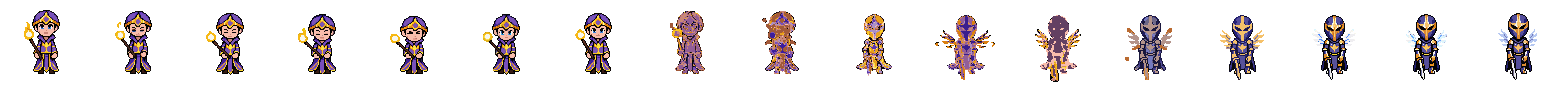
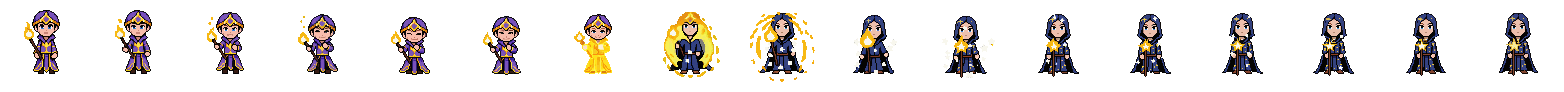
feat(mascote): estagio 4 coerente — Mago Celestial no lugar do Cavaleiro
Substitui a forma 4 (niveis 31-40) do mascote mago por uma forma
tematicamente coerente com as demais: MAGO CELESTIAL (manto indigo
estrelado, constelacoes, capa cosmica). Antes ia de Arquimago para
Cavaleiro Arcano, o que quebrava o tema de mago.

- 10 idles WORK nv31-40 (escada cosmica: estrela orbitando, constelacao,
  runa astral, capa estelar, 2 estrelas, galaxia familiar, anel de
  estrelas, aura cosmica, luz estelar carregada, halo no auge)
- 5 REST form4 (breathe, dragao bebe voando, gato, stargaze, mapa de
  constelacoes) — mantem o arco do dragao
- evolve-3 regerado (Arquimago -> Celestial) e evolve-4 (Celestial -> Deus)
- formName 31-40: "Cavaleiro Arcano" -> "Mago Celestial"
- inclui as REST por forma (f2-f5) ainda nao commitadas

Gerado no PixelLab (base 33bf49ae), 16 frames/anim, tsc verde.

diff --git a/app/src/canvas/mascot/mascotAssets.ts b/app/src/canvas/mascot/mascotAssets.ts
@@ -2,12 +2,14 @@
  * Mascot sprite assets — animated MAGE (pixel wizard), 50 levels / 5 forms.
  *
  * Forms metamorphose every 10 levels: Aprendiz (1-10) → Feiticeiro (11-20) →
- * Arquimago (21-30) → Cavaleiro Arcano (31-40) → Deus Arcano (41-50). Within a
+ * Arquimago (21-30) → Mago Celestial (31-40) → Deus Arcano (41-50). Within a
  * form the WORK idle increments per level (aura/weapon/magic).
  *
  * States (see Mascot.tsx):
  *  - WORK  (an agent runs): plays the level's "channeling" idle.
- *  - REST  (idle): cycles cozy idles (breathe, coffee, cat, dragon egg, nap).
+ *  - REST  (idle): cycles cozy idles specific to the CURRENT form. A dragon-egg
+ *    storyline runs through them: tended by the apprentice, cracking, then
+ *    hatching into a baby dragon that grows into a companion.
  *  - EVOLVE: on crossing a form boundary, plays the one-shot transformation.
  *
  * Each sheet is a horizontal strip of FRAME_COUNT frames of FRAME_W x FRAME_H.
@@ -66,11 +68,36 @@ import evolve1 from "../../assets/mascot/mage/evolve-1.png";
 import evolve2 from "../../assets/mascot/mage/evolve-2.png";
 import evolve3 from "../../assets/mascot/mage/evolve-3.png";
 import evolve4 from "../../assets/mascot/mage/evolve-4.png";
-import restBreathe from "../../assets/mascot/mage/rest-breathe.png";
-import restCoffee from "../../assets/mascot/mage/rest-coffee.png";
-import restCat from "../../assets/mascot/mage/rest-cat.png";
-import restEgg from "../../assets/mascot/mage/rest-egg.png";
-import restNap from "../../assets/mascot/mage/rest-nap.png";
+// Form 1 (Aprendiz) REST
+import rest1Breathe from "../../assets/mascot/mage/rest-breathe.png";
+import rest1Coffee from "../../assets/mascot/mage/rest-coffee.png";
+import rest1Cat from "../../assets/mascot/mage/rest-cat.png";
+import rest1Egg from "../../assets/mascot/mage/rest-egg.png";
+import rest1Nap from "../../assets/mascot/mage/rest-nap.png";
+// Form 2 (Feiticeiro) REST
+import rest2Breathe from "../../assets/mascot/mage/rest-f2-breathe.png";
+import rest2Book from "../../assets/mascot/mage/rest-f2-book.png";
+import rest2Cat from "../../assets/mascot/mage/rest-f2-cat.png";
+import rest2Egg from "../../assets/mascot/mage/rest-f2-egg.png";
+import rest2Orb from "../../assets/mascot/mage/rest-f2-orb.png";
+// Form 3 (Arquimago) REST — the dragon egg hatches here
+import rest3Breathe from "../../assets/mascot/mage/rest-f3-breathe.png";
+import rest3Hatch from "../../assets/mascot/mage/rest-f3-hatch.png";
+import rest3Cat from "../../assets/mascot/mage/rest-f3-cat.png";
+import rest3Tea from "../../assets/mascot/mage/rest-f3-tea.png";
+import rest3Scroll from "../../assets/mascot/mage/rest-f3-scroll.png";
+// Form 4 (Mago Celestial) REST — baby dragon flies around
+import rest4Breathe from "../../assets/mascot/mage/rest-f4-breathe.png";
+import rest4Dragon from "../../assets/mascot/mage/rest-f4-dragon.png";
+import rest4Cat from "../../assets/mascot/mage/rest-f4-cat.png";
+import rest4Stargaze from "../../assets/mascot/mage/rest-f4-stargaze.png";
+import rest4Chart from "../../assets/mascot/mage/rest-f4-chart.png";
+// Form 5 (Deus Arcano) REST — grown dragon companion
+import rest5Breathe from "../../assets/mascot/mage/rest-f5-breathe.png";
+import rest5Dragon from "../../assets/mascot/mage/rest-f5-dragon.png";
+import rest5Cat from "../../assets/mascot/mage/rest-f5-cat.png";
+import rest5Meditate from "../../assets/mascot/mage/rest-f5-meditate.png";
+import rest5Bless from "../../assets/mascot/mage/rest-f5-bless.png";
 
 /** One animation frame is 92x92; sheets carry 17 frames (1 reference + 16). */
 export const FRAME_W = 92;
@@ -89,9 +116,13 @@ const WORK_SHEETS: readonly string[] = [
 /** Transformation sheets, indexed by target form (evolve into form 2..5). */
 const EVOLVE_SHEETS: readonly string[] = [evolve1, evolve2, evolve3, evolve4];
 
-/** REST idles cycled while the group is idle. */
-export const REST_SHEETS: readonly string[] = [
-  restBreathe, restCoffee, restCat, restEgg, restNap,
+/** REST idles per form (index = formIndex 0..4), each its own 5-idle set. */
+const REST_BY_FORM: readonly (readonly string[])[] = [
+  [rest1Breathe, rest1Coffee, rest1Cat, rest1Egg, rest1Nap],
+  [rest2Breathe, rest2Book, rest2Cat, rest2Egg, rest2Orb],
+  [rest3Breathe, rest3Hatch, rest3Cat, rest3Tea, rest3Scroll],
+  [rest4Breathe, rest4Dragon, rest4Cat, rest4Stargaze, rest4Chart],
+  [rest5Breathe, rest5Dragon, rest5Cat, rest5Meditate, rest5Bless],
 ];
 
 /** Form index (0..4) for a level: Aprendiz=0, Feiticeiro=1, … Deus=4. */
@@ -103,6 +134,12 @@ export function formIndex(level: number): number {
 export function workSheet(level: number): string {
   const idx = Math.min(Math.max(Math.floor(level) || 1, 1), WORK_SHEETS.length) - 1;
   return WORK_SHEETS[idx];
+}
+
+/** The cozy REST idles for a form index (0..4). */
+export function restSheets(formIdx: number): readonly string[] {
+  const i = Math.min(Math.max(formIdx, 0), REST_BY_FORM.length - 1);
+  return REST_BY_FORM[i];
 }
 
 /** The transformation sheet to play when evolving INTO the given form index

diff --git a/app/src/canvas/mascot/Mascot.tsx b/app/src/canvas/mascot/Mascot.tsx
@@ -14,7 +14,7 @@
 import { useEffect, useRef, useState } from "react";
 import {
   workSheet,
-  REST_SHEETS,
+  restSheets,
   evolveSheet,
   formIndex,
   FRAME_W,
@@ -44,7 +44,8 @@ export function Mascot({ level, working = false, size = 76 }: MascotProps) {
     const t = setInterval(() => tick((x) => (x + 1) % 1_000_000), 1000);
     return () => clearInterval(t);
   }, []);
-  const restIdx = Math.floor(Date.now() / REST_SWITCH_MS) % REST_SHEETS.length;
+  const rest = restSheets(formIndex(level));
+  const restIdx = Math.floor(Date.now() / REST_SWITCH_MS) % rest.length;
 
   // One-shot evolution when the form changes (level crosses a x0→x1 boundary).
   const [evolveSrc, setEvolveSrc] = useState<string | null>(null);
@@ -65,7 +66,7 @@ export function Mascot({ level, working = false, size = 76 }: MascotProps) {
   }, [level]);
 
   const oneShot = evolveSrc !== null;
-  const sheet = evolveSrc ?? (working ? workSheet(level) : REST_SHEETS[restIdx % REST_SHEETS.length]);
+  const sheet = evolveSrc ?? (working ? workSheet(level) : rest[restIdx % rest.length]);
 
   // Frame ticker: ping-pong for idles, forward-once for the evolution.
   const [frame, setFrame] = useState(0);

diff --git a/app/src/canvas/GroupFrame.tsx b/app/src/canvas/GroupFrame.tsx
@@ -429,7 +429,7 @@ function formName(level: number): string {
   if (level <= 10) return "Aprendiz";
   if (level <= 20) return "Feiticeiro";
   if (level <= 30) return "Arquimago";
-  if (level <= 40) return "Cavaleiro Arcano";
+  if (level <= 40) return "Mago Celestial";
   return "Deus Arcano";
 }
 
